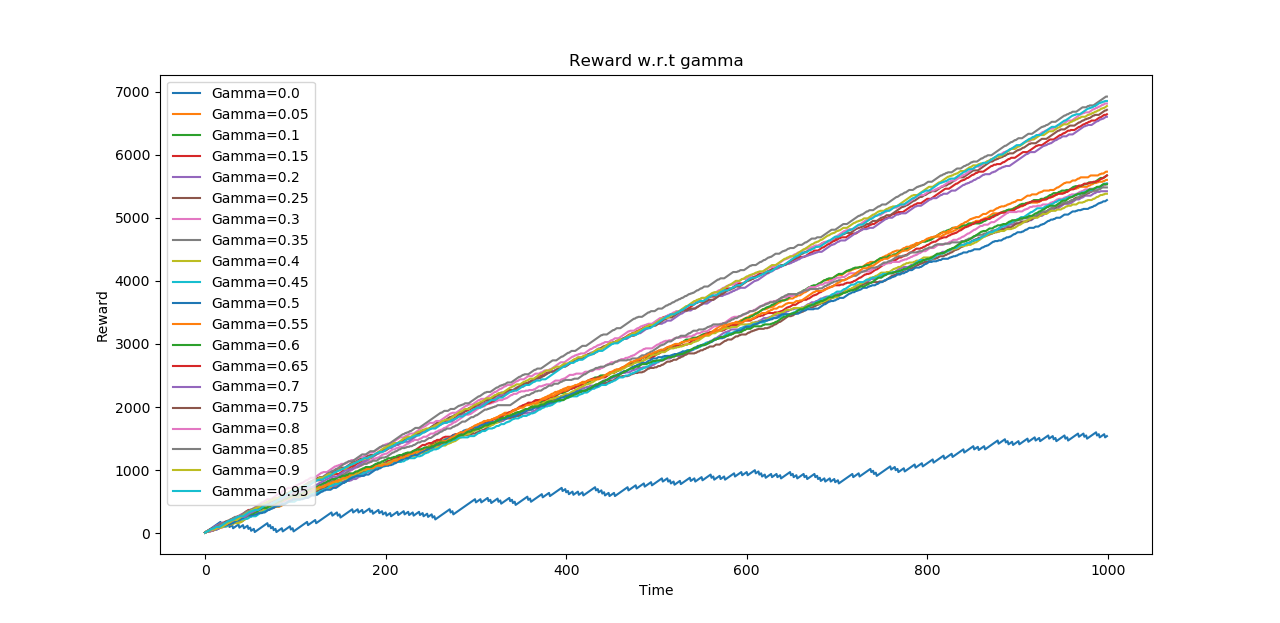
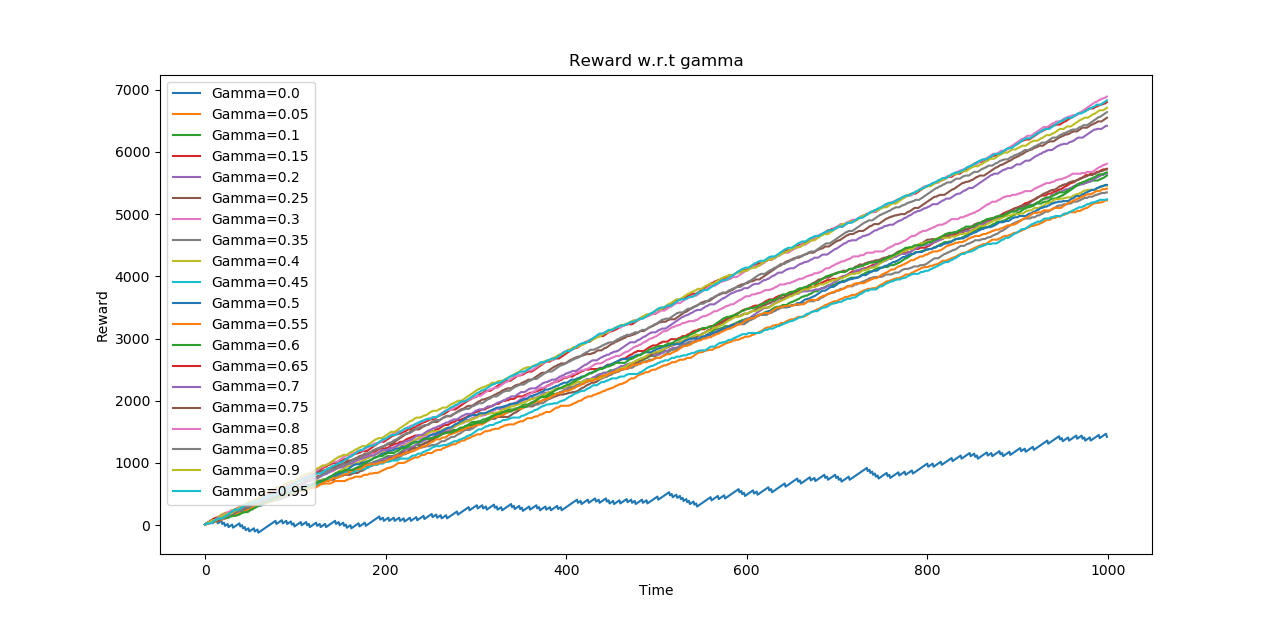
Changed VI stopping criteria

diff --git a/lab1/problem_2.py b/lab1/problem_2.py
@@ -51,7 +51,7 @@ def value_iteration(possible_states, states, gamma, tolerance):
     best_policy = np.full((len(possible_states), 1), value, dtype=object)
     # Iterate until convergence
     n = 0
-    while np.linalg.norm(V - best_V) >= tolerance and n < 50:
+    while np.linalg.norm(V - best_V) >= tolerance:
         # Update the value function
         V = np.copy(best_V)
         # Compute the new BV
